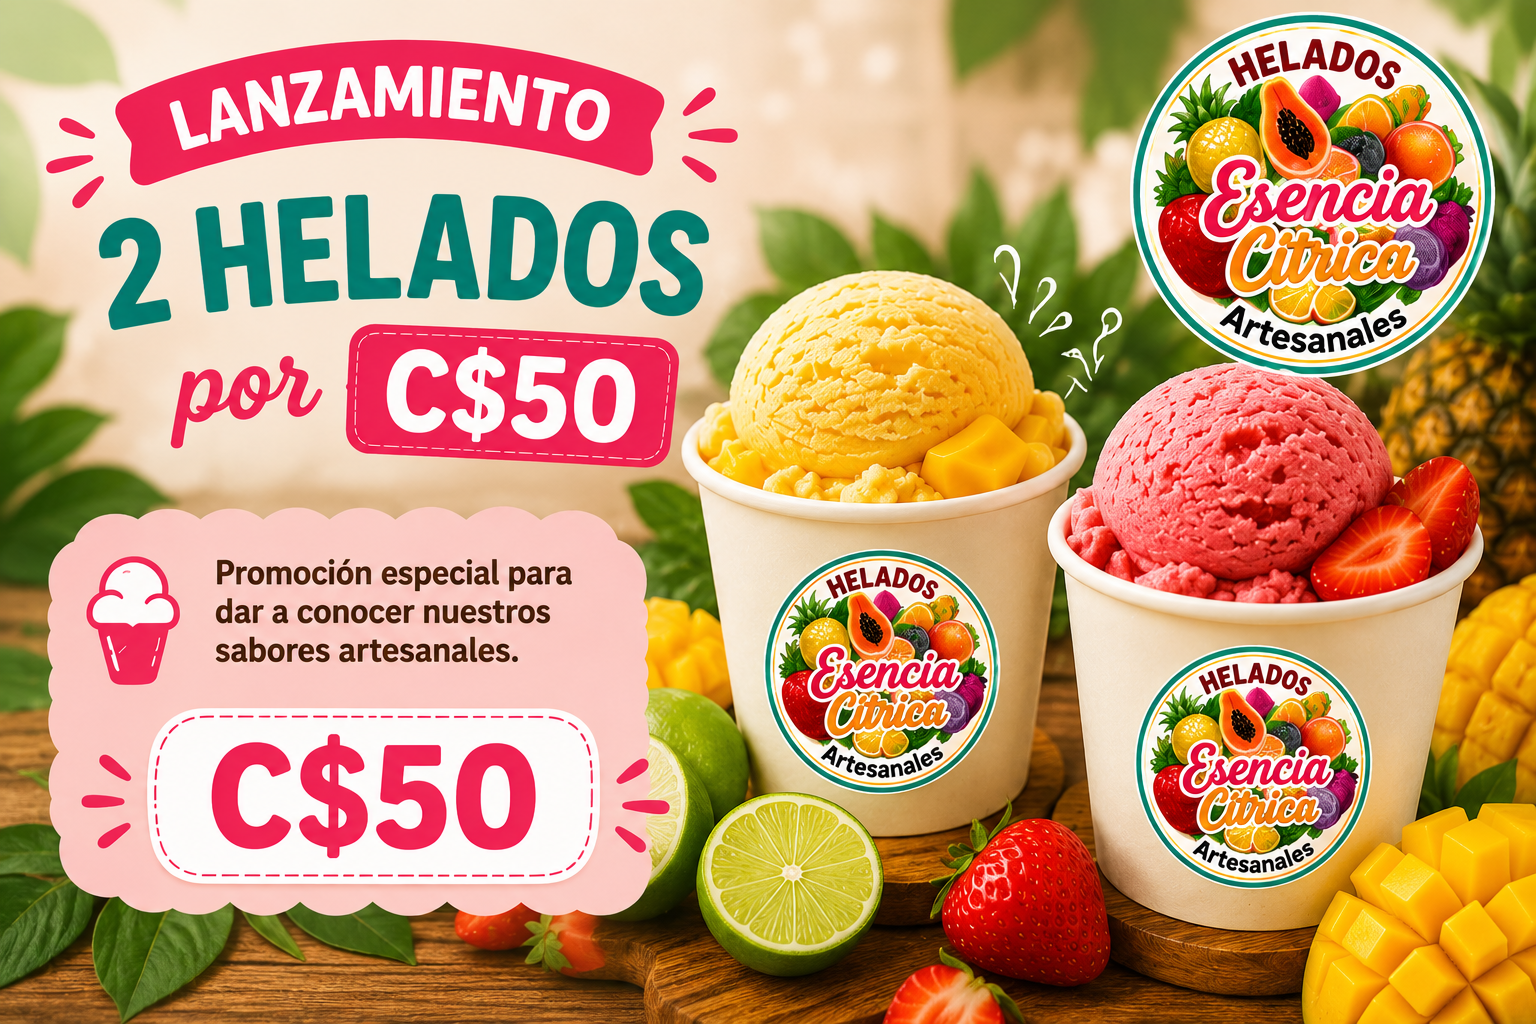
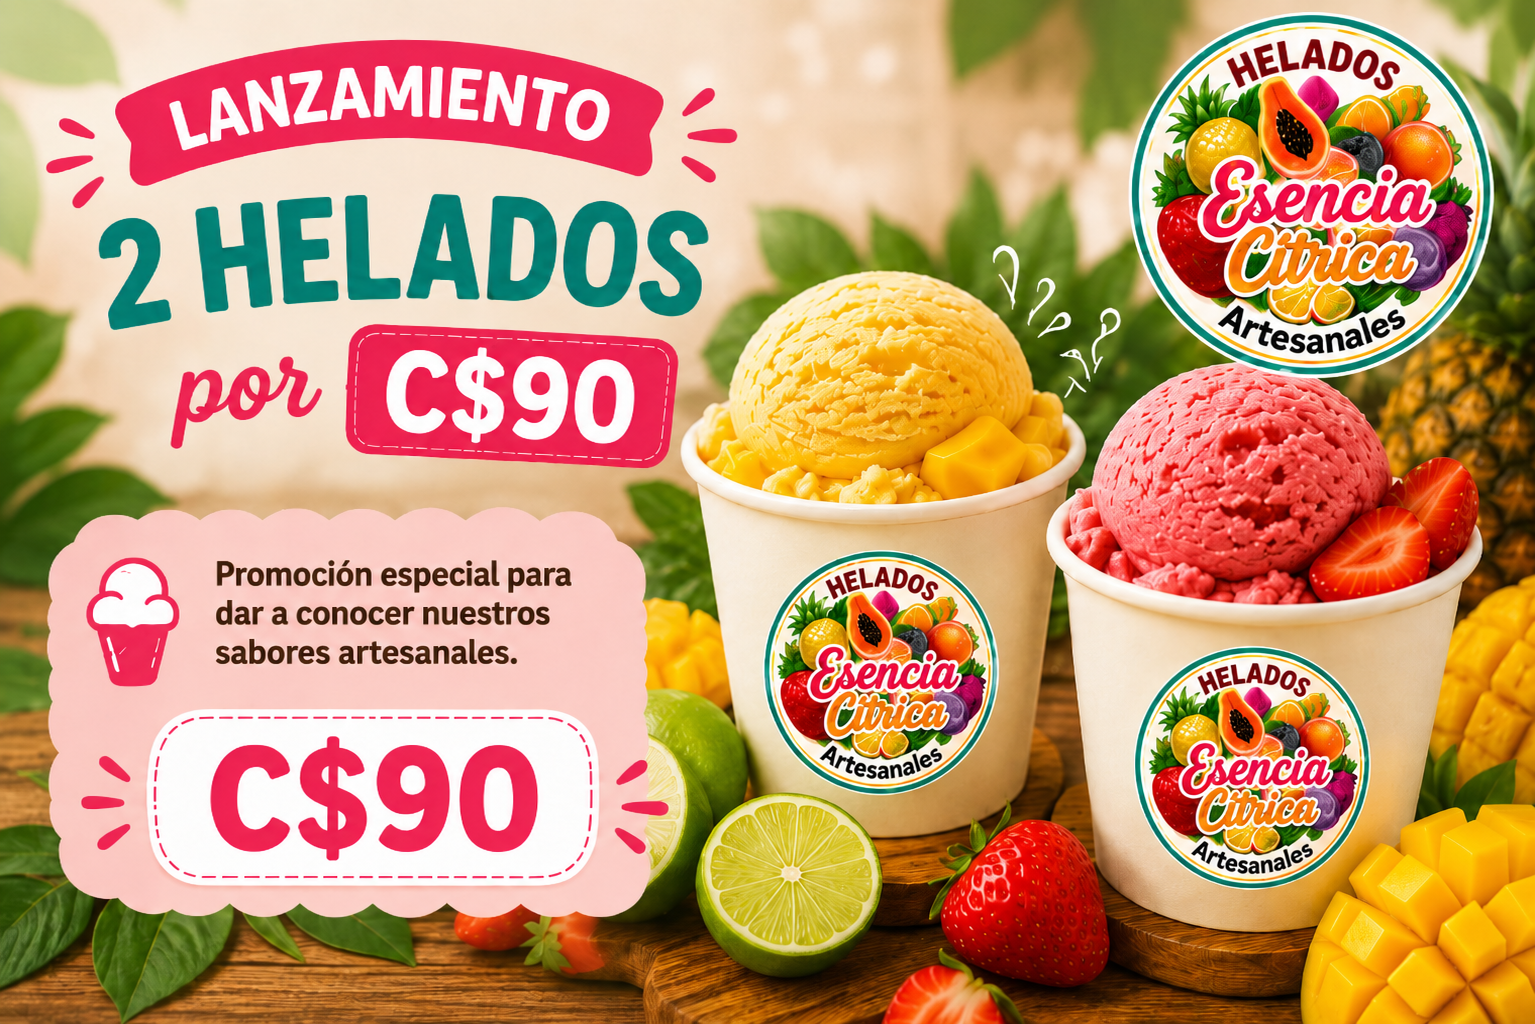
Correccion responsive movil

diff --git a/styles.css b/styles.css
@@ -2341,3 +2341,49 @@ button:hover,
   }
 
 }
+
+@media (max-width: 768px){
+
+  .steps-grid{
+    display:grid !important;
+    grid-template-columns:1fr !important;
+    gap:25px !important;
+    padding:0 18px;
+  }
+
+  .step-card{
+    width:100% !important;
+    max-width:100% !important;
+    min-width:0 !important;
+  }
+
+  .step-card img{
+    width:100% !important;
+    height:260px !important;
+    object-fit:cover !important;
+  }
+
+  .step-card h3{
+    font-size:26px !important;
+  }
+
+  .como-comprar{
+    padding:45px 0 !important;
+    overflow:hidden;
+  }
+
+  .section-title{
+    padding:0 18px;
+  }
+
+  .social-floating{
+    right:8px !important;
+    gap:8px !important;
+  }
+
+  .social-floating a{
+    width:44px !important;
+    height:44px !important;
+    font-size:16px !important;
+  }
+}